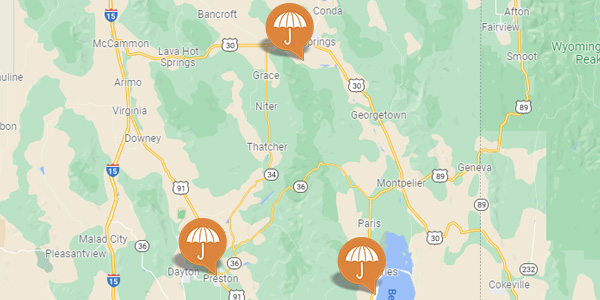
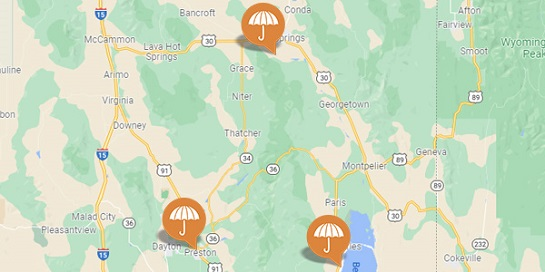
optimazing images

diff --git a/lesson6/preston-6.html b/lesson6/preston-6.html
@@ -46,7 +46,13 @@
     <main>
         <h2>Preston Idaho</h2>
         <div class="ws-containner">
-            <img src="images/preston.jpg" alt="Preston Hero Image">
+            
+            <picture>
+                <source media="(max-width: 34.99em)" srcset="images/preston545x264_small.jpg">
+                <source media="(max-width: 55.99em)" srcset="images/preston667x250_medium.jpg">
+                <source media="(min-width: 56em)" srcset="images/preston960x300_large.jpg">
+                <img src="images/preston960x300_large.jpg" alt="Preston Hero Image">
+            </picture>
             <div class="wsummary">
                 <section>
                     <h4>Weather Summary</h4>
